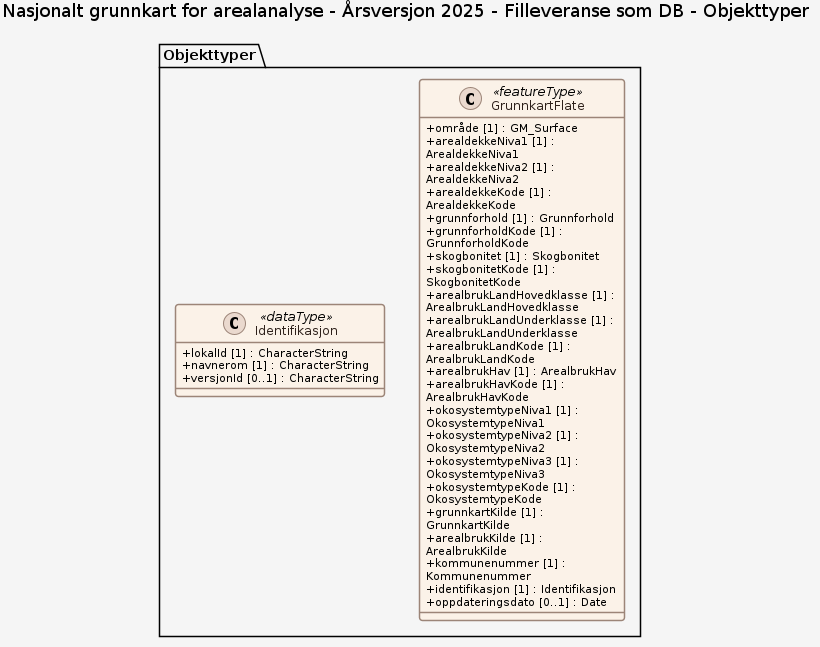
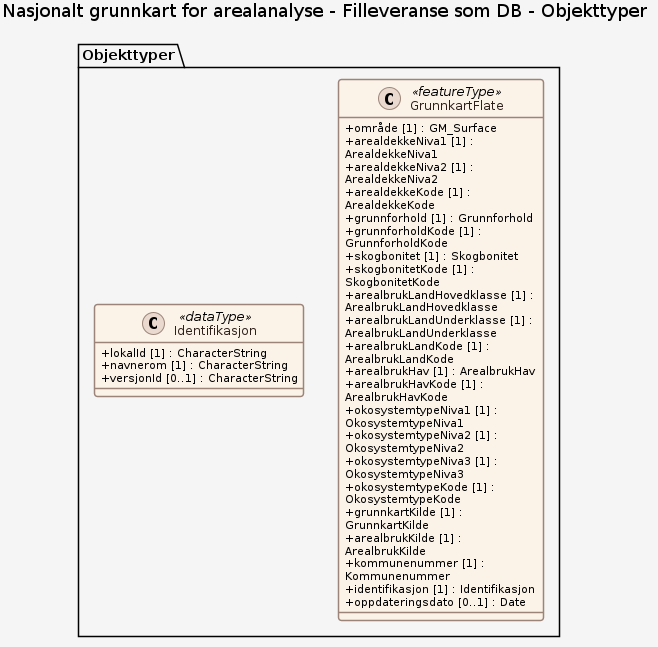
update produktspesifikasjon

Changed region(s): [[0.0912, 0.0618, 0.8511, 0.9892], [0.0, 0.0, 1.0, 0.0309]]

diff --git a/produktspesifikasjon/grunnkart-arealanalyser/index.md b/produktspesifikasjon/grunnkart-arealanalyser/index.md
@@ -1,34 +1,20 @@
 ---
-title: "Nasjonalt grunnkart for arealanalyse - Årsversjon 2025"
+title: "Nasjonalt grunnkart for arealanalyse"
 updated: "2025-04-07"
 organization: "Statistisk sentralbyrå"
 logo: "https://register.geonorge.no/data/organizations/971526920_SSB_liten.png"
 ---
 
-# Produktspesifikasjon: Nasjonalt grunnkart for arealanalyse - Årsversjon 2025
+# Produktspesifikasjon: Nasjonalt grunnkart for arealanalyse
 
-*Nasjonalt grunnkart for arealanalyse er tilgjengelig som **årsversjon 2025**. 
-Nå er GML, FGDB og Geopackage filer av årsversjon 2025 tilgjengelig for nedlasting. 
-
-**Dersom du ønsker å se på Årsversjon 2025 av Grunnkartet, er den nye WMS-tjenesten tilgjengelig.** Mer informasjon om WMS-tjenesten finner du på <https://kartkatalog.geonorge.no/Metadata/c7dc425b-60cd-42f7-a84e-202c7d7b912a>. 
-
-- - - 
-Velkommen til **webinar om årsversjon 2025 torsdag 23. april 2026 kl 09.00 - 10.30.** 
-Du får en orientering til Grunnkartet, samt en gjennomgang av nyhetene i årsversjonen. Det vil også vises nok eksempler på praktisk bruk av kartet. 
-
-Webinaret er åpent for alle og det vil være mulig å stille spørsmål. 
-Her kan du melde deg og følge webinaret: <https://events.teams.microsoft.com/event/cc7eafa1-dcdd-492c-bde3-c30fd9cbf62e@7f74c8a2-43ce-46b2-b0e8-b6306cba73a3>
-
-Webinaret blir ikke tatt opp. 
-- - -
-
-Grunnkartet er utviklet i samarbeid mellom NIBIO, SSB, Kartverket og Miljødirektoratet, og er ment som et felles datagrunnlag for ulike typer arealanalyser.
+*Grunnkartet er utviklet i samarbeid mellom NIBIO, SSB, Kartverket og Miljødirektoratet, og er ment som et felles datagrunnlag for ulike typer arealanalyser.
 
 Datasettet bygger på eksisterende data fra det offentlige kartgrunnlaget (DOK), som viser arealressurs- og arealbruksdata, og innebærer ingen nykartlegging.  Kildedata som er brukt i denne versjonen var oppdatert per 01.01.2025. I tillegg til arealressurs- og arealbruksdata er det lagt inn økosysteminformasjon i henhold til Eurostats klassifikasjonssystem. Grunnkartet kan kobles med andre datakilder, som for eksempel arealplaner, og benyttes som grunnlag for ulike typer arealanalyser og arealregnskap. Les mer om datainnhold og metode under Prosesshistorie.
 
 
 **Rapporter**
 
+Utviklingen av Grunnkartet er dokumentert i flere rapporter, som beskriver metode, tilbakemeldinger og gjennomførte endringer.
 
 * Alle endringer som er implementert i Årsversjon 2025 er samlet i rapporten [Nasjonalt grunnkart for arealanalyse - Årsversjon 2025](https://doi.org/10.21350/4m2k-7z04)
 
@@ -40,7 +26,7 @@ Datasettet bygger på eksisterende data fra det offentlige kartgrunnlaget (DOK),
 
 * Les mer om metode og bruk av Grunnkartet i rapporten [Grunnkart for bruk i arealregnskap](https://hdl.handle.net/11250/3120510)*
 
-**Nøkkelord:** Grunnkart, Arealregnskap, Arealstatistikk, Økosystemtyper, Arealanalyse, Norges fastland for landsdekkende datasett, ØkologiskGrunnkart, Det offentlige kartgrunnlaget, geodataloven, arealplanerPBL, Plan
+**Nøkkelord:** Grunnkart, Arealregnskap, Arealstatistikk, Økosystemtyper, Arealanalyse, Arealdekke, Arealbruk, Norges fastland for landsdekkende datasett, Det offentlige kartgrunnlaget, geodataloven, arealplanerPBL, Plan
 
 **Emnekategorier:** 
 
@@ -66,7 +52,7 @@ Datasettet bygger på eksisterende data fra det offentlige kartgrunnlaget (DOK),
 > **Språk:** nor<br>
 > **Kontaktinformasjon:** Statistisk sentralbyrå, [[email redacted]](mailto:[email redacted])
 
-## Om produktet Nasjonalt grunnkart for arealanalyse - Årsversjon 2025
+## Om produktet Nasjonalt grunnkart for arealanalyse
 
 
 > **Romlig representasjonstype:** Vektor<br>
@@ -150,14 +136,10 @@ Kommunal- og distriktsdepartementet (KDD) publiserte i 2023 en veileder for area
 
 - **Kvalitetsmål**: Prosentvis oppfyllelse av FAIR-prinsipper
   **Målebeskrivelse**: Angir fullstendighet i forhold til krav fra FAIR-prinsippene (The FAIR Guiding Principles for scientific data management and stewardship)
-  **Resultat**: 93
-
-- **Kvalitetsmål**: Prosentvis oppfyllelse av FAIR-prinsipper
-  **Målebeskrivelse**: Angir fullstendighet i forhold til krav fra FAIR-prinsippene (The FAIR Guiding Principles for scientific data management and stewardship)
-  **Resultat**: 93
+  **Resultat**: 95
 
 - **Kvalitetsmål**: FAIR
-  **Resultat**: Prosentvis oppfyllelse av FAIR-prinsipper: 93%
+  **Resultat**: Prosentvis oppfyllelse av FAIR-prinsipper: 95%
 
 ## Datafangst og produksjon
 
@@ -224,7 +206,7 @@ Kommunal- og distriktsdepartementet (KDD) publiserte i 2023 en veileder for area
 
 **Metadatastandardversjon**: 2003
 
-**Metadatadato**: 2026-05-11
+**Metadatadato**: 2026-06-09
 
 **språk**: nor
 